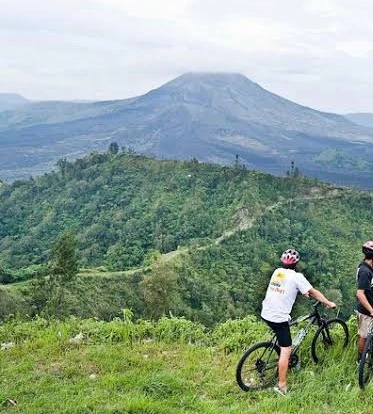
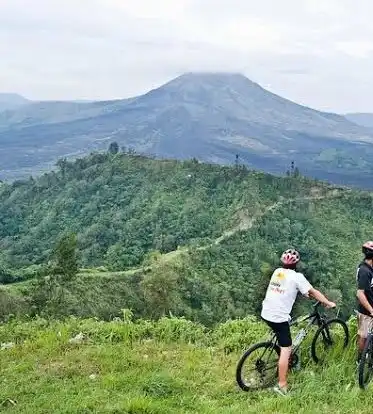
discover page

diff --git a/chamber/styles/base.min.css b/chamber/styles/base.min.css
@@ -1,0 +1,1 @@
+body,html{background-color:var(--background);color:var(--text-light)}.hamburger::after,.hamburger::before{content:"";position:absolute;width:23px;height:3px;top:50%}body,html,nav a{color:var(--text-light)}header span,nav a:hover,nav h1{color:var(--primary)}img,main::before,nav a{display:block}.hamburger::after,.hamburger::before{background-color:var(--primary);left:50%}.content-card,.member-card,.spotlight-card{box-shadow:var(--shadow)}.contact-info a,.member-card a,.spotlight-card a:hover{text-decoration:underline}.content-card>h2,.forecast h3,.forecast-card,.hero-content,.hero-value,footer,nav h1{text-align:center}:root{--background:#121111;--surface:#1e1c1c;--surface-light:#292626;--primary:#ffe97a;--primary-dark:#d6a84f;--text-light:#f5f5f5;--text-muted:#c9c9c9;--border:#5d512b;--focus:#ffffff;--footer-contact-text:#ffffff;--footer-contact-hover:#ffe97a;--shadow:0 4px 12px rgba(0, 0, 0, 0.45);--font-main:"Roboto",sans-serif}*{box-sizing:border-box;margin:0;padding:0}html{font-family:var(--font-main)}body{min-width:320px;line-height:1.6}img{max-width:100%;height:auto}header,nav ul.show{display:flex}a,button{font-family:inherit}header{min-height:75px;background-color:var(--surface);border-bottom:2px solid var(--primary-dark);align-items:center;justify-content:space-between;padding:1rem}.logo{width:45px;height:45px}header span{font-size:1.25rem;font-weight:700;margin-left:auto;margin-right:1rem}.hamburger{width:45px;height:40px;position:relative;border:2px solid var(--primary);border-radius:5px;background:0 0;cursor:pointer}.member-card,footer,nav{background-color:var(--surface)}.hamburger::before{transform:translate(-50%,-50%);box-shadow:0 -8px 0 var(--primary),0 8px 0 var(--primary);transition:transform .2s,box-shadow .2s}.hamburger[aria-expanded=true]::before{transform:translate(-50%,-50%) rotate(45deg);box-shadow:0 0 0 transparent,0 0 0 transparent}.hamburger::after{transform:translate(-50%,-50%) rotate(0);opacity:0;transition:transform .2s,opacity .2s}.hamburger:hover,.member-card:hover,nav a:hover{background-color:var(--surface-light)}.hamburger[aria-expanded=true]::after{opacity:1;transform:translate(-50%,-50%) rotate(-45deg)}.hamburger:hover{border-color:var(--primary)}.hamburger:focus-visible{outline:3px solid var(--focus);outline-offset:3px}.hamburger:active{transform:scale(.95)}.member-card:hover,.social-links li:hover{transform:translateY(-3px)}nav h1{font-size:1.5rem;padding:1rem}nav ul{display:none;list-style:none;flex-direction:column}nav li{width:100%}nav a{padding:.9rem 1rem;text-decoration:none;font-weight:600;border-top:1px solid #333;transition:background-color .2s,color .2s,padding-left .2s}nav a:hover{padding-left:1.4rem}nav a:focus-visible{outline:3px solid var(--focus);outline-offset:-3px}nav a[aria-current=page],nav li.active a{background-color:rgba(255,233,122,.14);color:var(--primary);border-left:5px solid var(--primary);font-weight:700}nav li.active a:hover{background-color:rgba(255,233,122,.22)}main::before{content:"Local Businesses & Services";color:var(--text-muted);font-size:.95rem;margin-bottom:1rem}#grid-view,#list-view{border:2px solid var(--primary);border-radius:6px;background-color:transparent;color:var(--primary);padding:.65rem 1rem;margin:0 .4rem 1.2rem 0;font-weight:700;cursor:pointer;transition:background-color .2s,color .2s,transform .2s,box-shadow .2s}#grid-view:hover,#list-view:hover{background-color:var(--primary);color:var(--background);box-shadow:0 0 10px rgba(255,233,122,.25)}#grid-view:focus-visible,#list-view:focus-visible{outline:3px solid var(--focus);outline-offset:3px}#grid-view:active,#list-view:active{transform:scale(.96)}#directory-container,.membership-levels{display:grid;gap:1rem}.member-card a,.membership{display:inline-block;font-weight:700}.member-card{border:1px solid var(--border);border-radius:8px;padding:1.2rem;transition:transform .2s,border-color .2s,background-color .2s}.member-card:hover{border-color:var(--primary)}#all-places div button:hover,.close-modal:hover,.form button[type=submit]:hover,.join-button:hover,.modal-link:hover,.return-home:hover{background-color:var(--primary-dark)}.member-card:focus-within{outline:2px solid var(--primary);outline-offset:2px}.member-card img{width:100%;max-width:180px;height:120px;object-fit:contain;margin:0 auto 1rem;background-color:#fff;border-radius:5px;padding:.5rem}.member-card h2{color:var(--primary);font-size:1.25rem;margin-bottom:.4rem}.member-card p{color:var(--text-light);margin-bottom:.35rem}.member-card a,.membership,footer h3{color:var(--primary)}.member-card .category{color:var(--primary-dark);font-weight:700}.member-card .description{color:var(--text-muted);font-size:.95rem;margin-top:.6rem}.member-card a{margin-top:.8rem}.member-card a:hover,.spotlight-card strong{color:var(--text-light)}.member-card a:focus-visible{outline:3px solid var(--focus);outline-offset:3px}.membership{margin-top:.6rem;padding:.25rem .6rem;border:1px solid var(--primary-dark);border-radius:20px;font-size:.8rem}#directory-container.list-view{display:flex;flex-direction:column;gap:.5rem}#directory-container.list-view .member-card{display:grid;grid-template-columns:100px 1fr;align-items:center;padding:.8rem}#directory-container.list-view .member-card img{width:85px;height:70px;margin:0}#directory-container.list-view .member-card h2{font-size:1rem}#directory-container.list-view .member-card p{font-size:.85rem}#directory-container.list-view .description,#directory-container.list-view .membership,.form input[type=hidden]{display:none}footer{border-top:2px solid var(--primary-dark);padding:2rem 1rem}footer section{margin-bottom:1.5rem}footer h3{margin-bottom:.6rem}.footer-bottom,footer p{color:var(--text-muted)}footer p{margin-bottom:.7rem}.contact-info a,.contact-info p{color:var(--footer-contact-text)}.contact-info a{text-underline-offset:2px}.contact-info a:focus-visible,.contact-info a:hover{color:var(--footer-contact-hover)}.contact-info a:focus-visible{outline:3px solid var(--focus);outline-offset:3px}.social-links ul{display:flex;justify-content:center;align-items:center;gap:1rem;list-style:none;margin:1rem 0}.join-button,.social-links a{display:inline-block}.social-links li{transition:transform .2s}.social-links img{width:35px;height:35px}.hero img,.hero-image picture{width:100%;display:block}.social-links a:hover{opacity:.8}.social-links a:focus-visible{outline:3px solid var(--focus);outline-offset:3px}.footer-bottom p{margin-bottom:.7rem}#last-modified{color:var(--primary);margin-left:.3rem}@media (max-width:500px){.member-card img{max-width:130px;height:90px}}main{width:100%;max-width:1600px;margin:0 auto;padding:1rem}.hero-image{position:relative;margin-bottom:2rem;overflow:hidden;border-radius:8px}.hero img{height:auto;object-fit:contain}.hero-content{position:absolute;left:50%;bottom:5%;transform:translateX(-50%);width:92%;max-width:1000px;padding:1rem;background-color:rgba(18,17,17,.78);border-radius:8px}.hero-content h2{margin-bottom:.5rem;color:var(--primary);font-size:1.5rem}.hero-content p{margin-bottom:1rem;color:var(--text-light);line-height:1.4}.join-button{padding:.7rem 1.4rem;background-color:var(--primary);color:var(--background);font-weight:700;text-decoration:none;border-radius:5px}.content-card,.forecast-card{border:1px solid var(--border)}.join-button:hover{transform:translateY(-2px)}.content-card{margin-bottom:2rem;padding:1.5rem;background-color:var(--surface);border-radius:8px}.event-card,.forecast-card,.spotlight-card{background-color:var(--surface-light)}.content-card>h2{margin-bottom:1.25rem;color:var(--primary)}.events-container,.forecast-cards{display:grid;grid-template-columns:1fr;gap:1rem}.event-card{padding:1rem;border-radius:8px;border:1px solid var(--border)}.event-card h3,.forecast-card h4{margin-bottom:.5rem;color:var(--primary)}.event-card p{color:var(--text-muted);line-height:1.5}.weather-current{display:flex;align-items:center;justify-content:center;gap:1rem;margin-bottom:1.5rem}.form,.spotlight-card{flex-direction:column}.weather-current img{width:90px;height:90px}.temperature{margin:0;color:var(--primary);font-size:2rem;font-weight:700}#form-data,.close-modal{margin-top:1rem}.weather-current p{margin:.25rem 0;color:var(--text-muted)}.forecast h3,dialog{color:var(--text-light)}.forecast h3{margin-bottom:1rem}.forecast-card{padding:1rem;border-radius:8px}.forecast-card img{width:60px;height:60px}.forecast-card p{margin:.35rem 0;color:var(--text-muted)}.spotlight-container{display:grid;grid-template-columns:1fr;gap:1.25rem}.spotlight-card{display:flex;padding:1.25rem;border:1px solid var(--border);border-radius:8px}.membership-card,dialog{background-color:var(--surface)}.spotlight-card img{display:block;width:120px;height:80px;margin:0 auto 1rem;object-fit:contain;border-radius:5px}.spotlight-card h3,dialog li{margin-bottom:.75rem}.spotlight-card h3{color:var(--primary);text-align:center}.spotlight-card p{margin:.5rem 0;color:var(--text-muted);line-height:1.5}#form h2,.membership-card h3,.thank-you-card h1,dialog h2{margin-top:0;color:var(--primary)}.spotlight-card a{color:var(--primary);text-decoration:none}.membership-container{display:grid;grid-template-columns:1fr;gap:2rem;padding:1rem}.membership-levels h2{grid-column:1/-1}.membership-card{padding:1.5rem;border:1px solid var(--border);border-radius:10px;box-shadow:0 3px 8px rgba(0,0,0,.2);opacity:0;transform:translateY(20px);animation:.7s forwards cardAppear}.close-modal,.modal-link{background-color:var(--primary);color:#121111;font-weight:700;cursor:pointer}.membership-card:nth-child(2){animation-delay:.15s}.membership-card:nth-child(3){animation-delay:.3s}.membership-card:nth-child(4){animation-delay:.45s}.membership-card:nth-child(5){animation-delay:.6s}.price{font-weight:700;font-size:1.2rem}.modal-link{padding:.7rem 1rem;border:none;border-radius:5px}@keyframes cardAppear{to{opacity:1;transform:translateY(0)}}dialog{width:min(90%,500px);max-height:85vh;margin:auto;padding:2rem;border:1px solid var(--border);border-radius:10px;box-shadow:0 10px 30px rgba(0,0,0,.4);overflow-y:auto}dialog::backdrop{background-color:rgba(0,0,0,.7)}.close-modal{padding:.7rem 1.2rem;border:none;border-radius:5px}#all-places div,#form,.thank-you-card{background-color:var(--surface)}#form{padding:1.5rem;border-radius:12px;border:1px solid var(--border);box-shadow:0 4px 12px rgba(0,0,0,.25)}#form h2{margin-bottom:1.5rem;font-size:1.6rem}.form{display:flex;gap:1rem}.form label{display:flex;flex-direction:column;gap:.4rem;color:var(--text-light);font-weight:600;font-size:.95rem}.form input,.form select,.form textarea{width:100%;box-sizing:border-box;padding:.8rem;border:1px solid var(--border);border-radius:6px;background-color:var(--background);color:var(--text-light);font-family:inherit;font-size:1rem;transition:border-color .2s,box-shadow .2s,background-color .2s}#form-data strong,.hero-value span,.thank-you-card h2{color:var(--primary)}.form textarea{min-height:130px;resize:vertical}.form input::placeholder,.form textarea::placeholder{color:var(--text-muted)}.form input:focus,.form select:focus,.form textarea:focus{outline:0;border-color:var(--primary);box-shadow:0 0 0 3px rgba(255,233,122,.2);background-color:var(--surface-light)}.form input:required:valid,.form select:required:valid,.form textarea:required:valid{border-left:4px solid #4caf50}.form input:required:invalid:not(:placeholder-shown),.form select:required:invalid,.form textarea:required:invalid:not(:placeholder-shown){border-left:4px solid #d9534f}.form select{cursor:pointer}.form button[type=submit]{width:100%;margin-top:.5rem;padding:.9rem 1.2rem;border:none;border-radius:6px;background-color:var(--primary);color:#121111;font-family:inherit;font-size:1rem;font-weight:700;cursor:pointer;transition:background-color .2s,transform .2s,box-shadow .2s}.form button[type=submit]:hover{transform:translateY(-2px);box-shadow:0 4px 10px rgba(0,0,0,.3)}.form button[type=submit]:focus{outline:rgba(255,233,122,.4) solid 3px;outline-offset:2px}.form button[type=submit]:active{transform:translateY(0)}.thank-you{max-width:800px;margin:2rem auto;padding:1rem}.thank-you-card{border:1px solid var(--border);border-radius:12px;padding:2rem;box-shadow:0 5px 15px rgba(0,0,0,.25)}#all-places div button,.return-home{display:inline-block;background-color:var(--primary);color:#121111;font-weight:700}.thank-you-card h2{margin-top:2rem}#form-data p{padding:.9rem;margin:0;border-bottom:1px solid var(--border)}#form-data p:last-child{border-bottom:none}.return-home{margin-top:1.5rem;padding:.8rem 1.5rem;border-radius:6px;text-decoration:none}.hero-values{display:flex;justify-content:center;align-items:flex-start;gap:1.5rem;margin-bottom:1.5rem}.hero-value{display:flex;flex-direction:column;align-items:center;min-width:80px}.hero-value span{font-size:1.5rem;font-weight:700;line-height:1.2}.hero-value img{width:42px;height:42px;margin-top:.5rem;object-fit:contain}#all-places div{margin:1rem 8px;border:1px solid var(--border);border-radius:8px;overflow:hidden;display:grid;grid-template-areas:"name" "photo" "address" "description" "button"}#all-places div h2{margin:1rem 10px;grid-area:name}#all-places div p{margin:1rem 10px;grid-area:description}#all-places div img{width:100%;height:auto;grid-area:photo;aspect-ratio:3/2}#all-places div address{margin:1rem 10px;grid-area:address}#all-places div button{grid-area:button;width:fit-content;max-width:100%;min-height:44px;padding:12px 24px;margin:.5rem 10px;border:0 solid var(--primary);border-radius:4px;font-size:.95rem;cursor:pointer}#all-places div button:hover{color:#fff}@font-face{font-family:Roboto;display:swap}

diff --git a/chamber/styles/base.css b/chamber/styles/base.css
@@ -1281,7 +1281,9 @@ dialog li {
         "name"
         "photo"
         "address"
-        "description";
+        "description"
+        "button"
+        ;
 }
 
 #all-places div h2 {
@@ -1296,10 +1298,43 @@ dialog li {
 
 #all-places div img {
     width: 100%;
+    height: auto;
     grid-area: photo;
+    aspect-ratio: 3/2;
 }
 
 #all-places div address {
     margin: 1rem 10px;
     grid-area: address;
+}
+
+/* Learn More button on Discover cards */
+#all-places div button {
+    grid-area: button;
+    display: inline-block;
+    width: fit-content;
+    max-width: 100%;
+    min-height: 44px;
+    padding: 12px 24px;
+    margin: 0.5rem 10px;
+    background-color: var(--primary);
+    color: #121111;
+    border: 0px solid var(--primary);
+    border-radius: 4px;
+
+    font-size: 0.95rem;
+    font-weight: 700;
+    cursor: pointer;
+}
+
+
+#all-places div button:hover {
+    background-color: var(--primary-dark);
+    color: #fff;
+}
+
+
+@font-face {
+    font-family: Roboto;
+    display: swap;
 }

diff --git a/chamber/discover.html b/chamber/discover.html
@@ -37,7 +37,8 @@
 
     <link rel="preconnect" href="https://fonts.googleapis.com">
     <link rel="preconnect" href="https://fonts.gstatic.com" crossorigin>
-    <link href="https://fonts.googleapis.com/css2?family=Roboto:ital,wght@0,100..900;1,100..900&display=swap" rel="stylesheet">
+   <link href="https://fonts.googleapis.com/css2?family=Roboto:wght@400;500;700&display=swap"
+    rel="stylesheet">
 
     <link rel="stylesheet" href="styles/base.css">
     <link rel="stylesheet" href="styles/large.css">
@@ -66,6 +67,10 @@
         </ul>
     </nav>
     <main id="all-places">
+        <h1>Discover Kigali</h1>
+        <section class="visit-message" id="visit-message" aria-live="polite" aria-atomic="true">
+            <!--Vistit message to be dymanically inserted by Javascript-->
+        </section>
         <!-- Places will be dynamically inserted here -->
     </main>
    

diff --git a/chamber/styles/medium.css b/chamber/styles/medium.css
@@ -3,10 +3,38 @@
     grid-template-areas:
         "photo name"
         "photo address"
-        "photo description";
+        "photo description"
+        "photo button"
+        ;
+        align-items: start;
     }
 
     #all-places div img {
-        width: 300px;
+        width: 100%;
+        height: 100%;
+        border-radius: 0.5rem;
+        object-fit: cover;
     }
+
+    /* Discover page */
+
+.visit-message {
+  grid-area: notice;
+  margin: 1rem 0;
+  padding: 1rem;
+  background-color: #292626;
+  color: #f5f5f5;
+  border-left: 4px solid #ffe97a;
+  border-radius: 0.35rem;
+  line-height: 1.5;
 }
+
+#all-places img {
+    transition: transform 0.3s ease-in-out;
+    overflow: hidden;
+}
+#all-places img:hover {
+    transform: scale(1.05);
+}
+}
+

diff --git a/chamber/styles/large.css b/chamber/styles/large.css
@@ -409,9 +409,29 @@
     }
 }
 
+
 @media only screen and (min-width: 64rem) {
-    #all-places div{
+    #all-places {
         display: grid;
-        grid-template-columns: 1fr 1fr;
+        grid-template-columns: repeat(2, minmax(0, 1fr));
+        gap: 1.5rem;
+        max-width: 1200px;
+        margin: 0 auto;
+        padding: 1rem;
+    }
+
+    #all-places > h1,
+    #all-places > .visit-message {
+        grid-column: 1 / -1;
+    }
+
+    #all-places > div {
+        margin: 0;
+        min-width: 0;
+    }
+
+    #all-places > div img {
+        width: 100%;
+        object-fit: cover;
     }
 }

diff --git a/mutualite/styles/base.css b/mutualite/styles/base.css
@@ -300,3 +300,4 @@ strong {
   padding-left: 1rem;
   border-left: 3px solid var(--secondary);
 }
+
